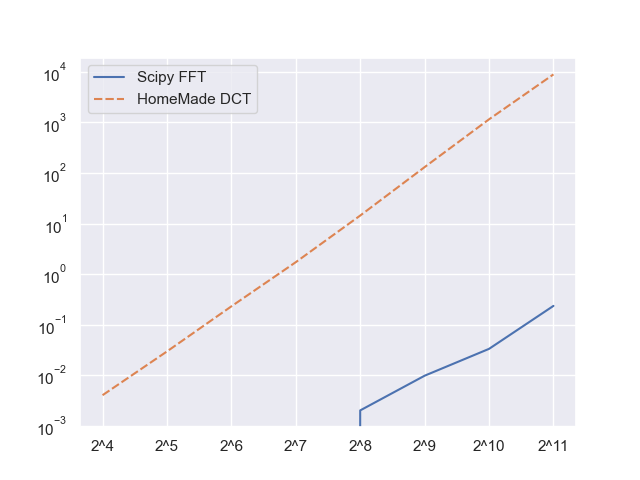
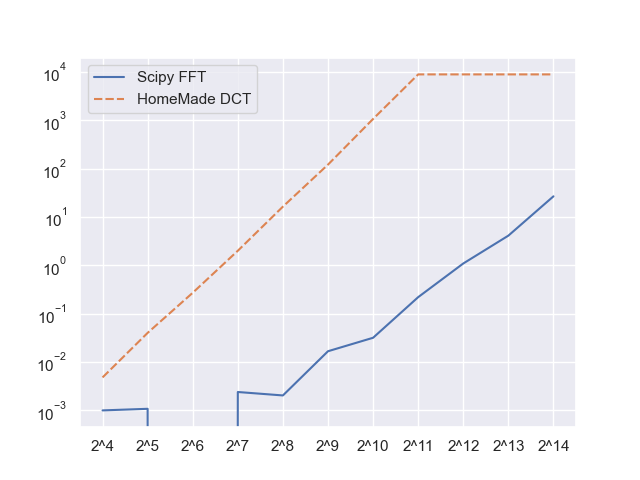
Plot dct2 fino a 2**14

diff --git a/dct-plot.py b/dct-plot.py
@@ -7,10 +7,10 @@ import seaborn as sns
 sns.set_theme(style="darkgrid")
 
 data = pd.read_pickle(os.path.join(".", "out-dct", "data-dct.pkl"))
-values = ['2^4', '2^5', '2^6', '2^7', '2^8', '2^9', '2^10', '2^11']
-g = sns.lineplot(data=data)
+g = sns.lineplot(data=result)
 g.set(yscale='log')
-plt.xticks([0, 1, 2, 3, 4, 5, 6, 7], values)
+values = ['2^4', '2^5', '2^6', '2^7', '2^8', '2^9', '2^10', '2^11', '2^12', '2^13', '2^14']
+plt.xticks([0, 1, 2, 3, 4, 5, 6, 7, 8, 9, 10], values)
 plt.show()
 fig = g.get_figure()
 fig.savefig("./images/plotdct2.png")

diff --git a/dct-notebook.py b/dct-notebook.py
@@ -64,12 +64,11 @@ for i in range(4, 15):
         if i == 11:
             print('-'*15 + " FINE MY_DCT " + '-'*15)
 
+for i in range(12,15):
+    my_times.append(0)
 
 sns.set_theme(style="darkgrid")
 
 data = pd.DataFrame(list(zip(lib_times, my_times)), columns=['Scipy FFT', 'HomeMade DCT'])
 data.to_pickle(os.path.join(".", "out-dct", "data-dct.pkl"))
 
-data = pd.read_pickle(os.path.join(".", "out-dct", "data-dct.pkl"))
-g = sns.lineplot(data=data)
-g.set(yscale='log')
